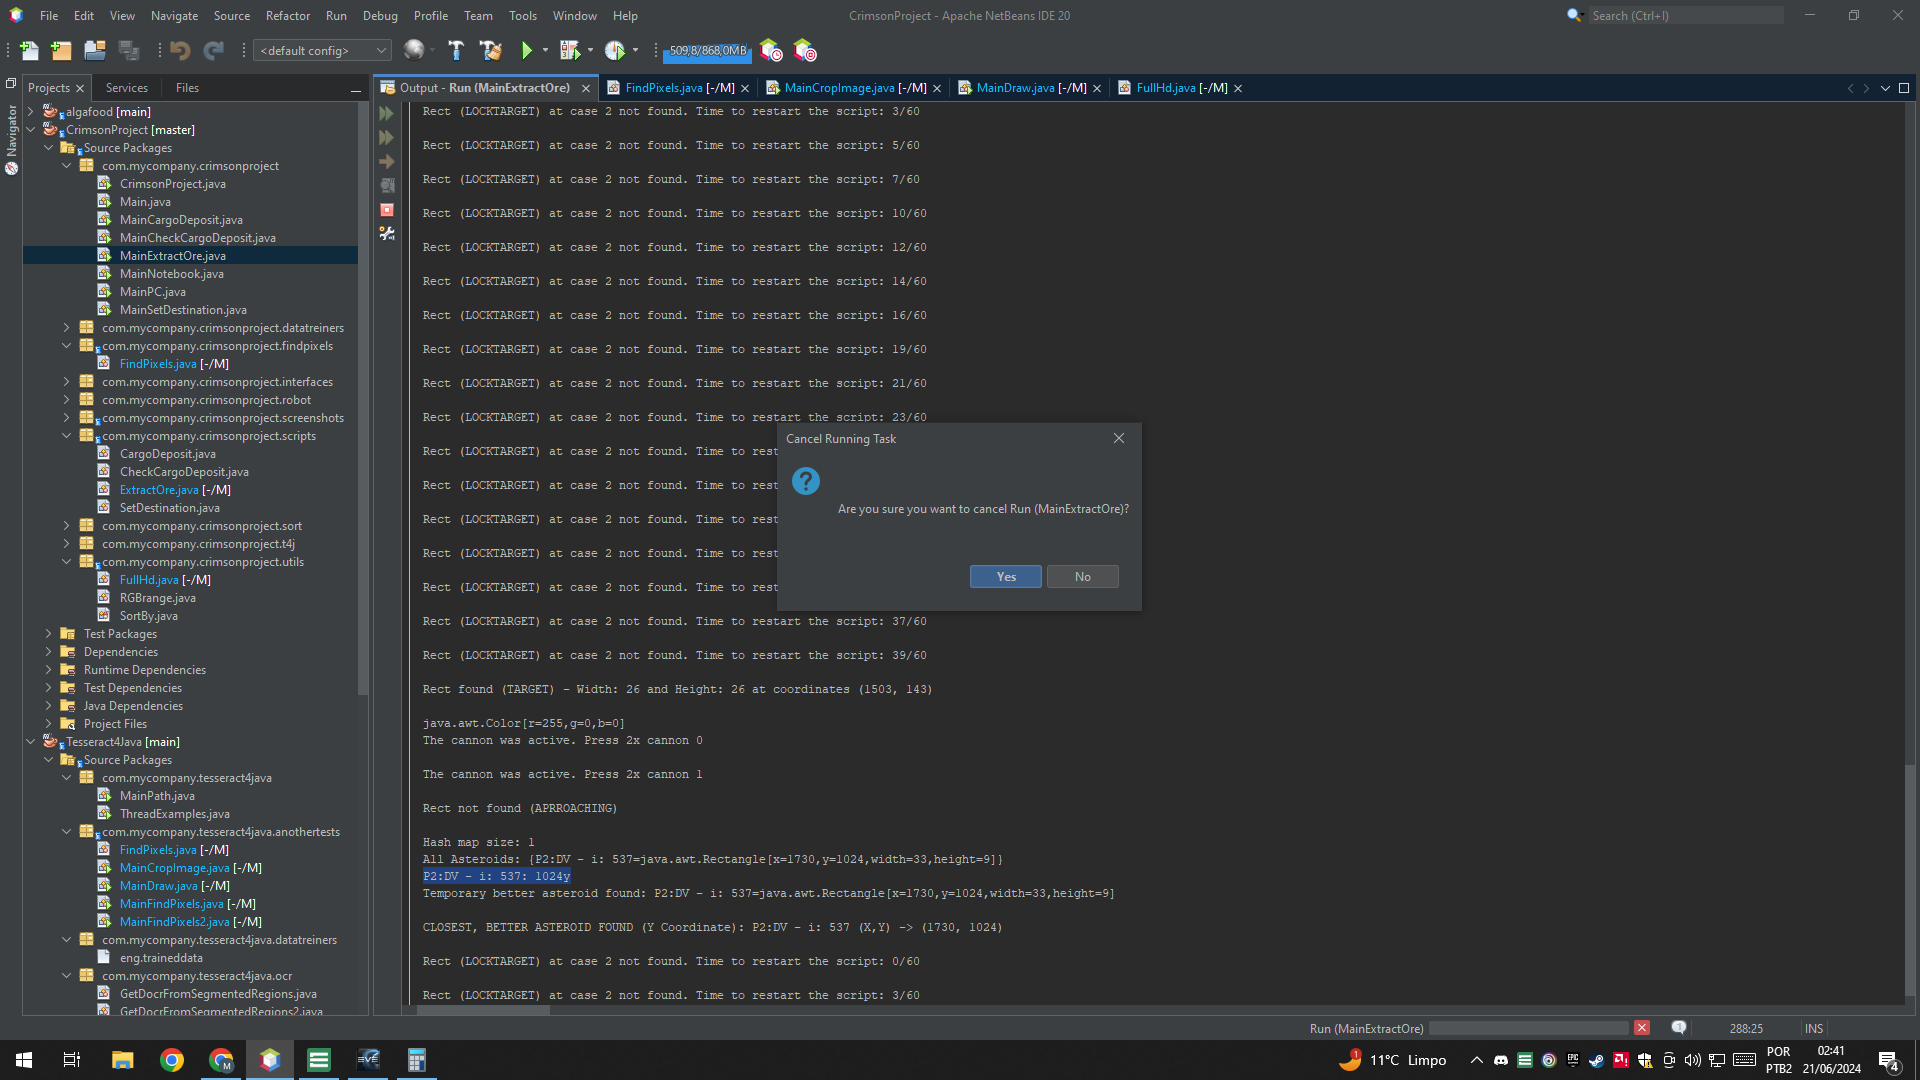
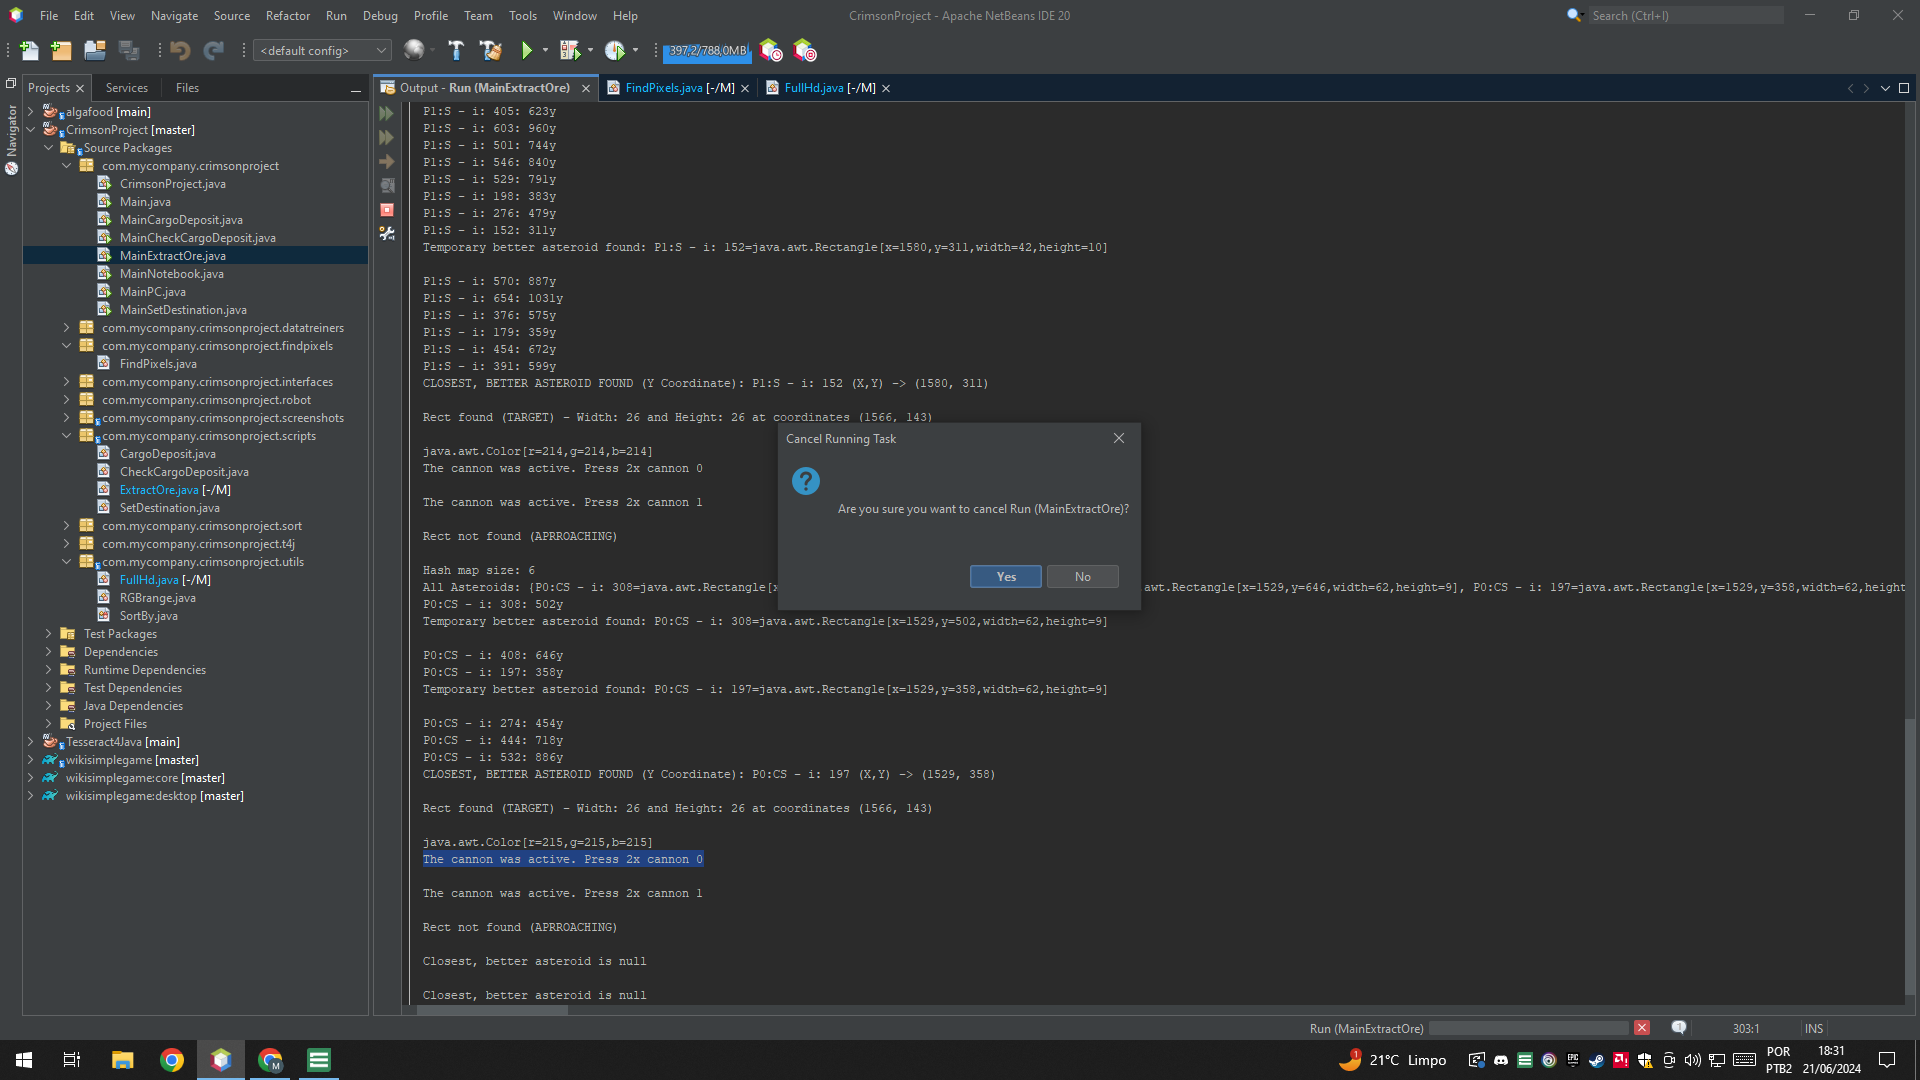
Alterando valores do canal green e onde o escopo é verificado na tela
Tentativa de maximizar as chances de acerto de verificação dos canhões

diff --git a/src/main/java/com/mycompany/crimsonproject/scripts/ExtractOre.java b/src/main/java/com/mycompany/crimsonproject/scripts/ExtractOre.java
@@ -237,7 +237,7 @@ public class ExtractOre implements VerifyRectangle {
         for (int i = 0; i < events.size(); i++) {
 
             //int i, int flagAttempt, List<Integer> coordinatesX, int y, int width, int height, Triplet<Integer, Integer, Integer> tupleMin, Triplet<Integer, Integer, Integer> tupleMax)
-            if (this.isMinerCannonAction(i, 11, (Arrays.asList(FullHd.getF1CANNON1_X(), FullHd.getF2CANNON2_X())), FullHd.getFnCANNONS_Y(), FullHd.getSTRIPMINERCANNON_W1(), FullHd.getSTRIPMINERCANNON_H1(), 140, 255)) {
+            if (this.isMinerCannonAction(i, 11, (Arrays.asList(FullHd.getF1CANNON1_X(), FullHd.getF2CANNON2_X())), FullHd.getFNCANNONS_Y(), FullHd.getSTRIPMINERCANNON_W1(), FullHd.getSTRIPMINERCANNON_H1(), 115, 133)) {
                 new KeyboardEvents().clickKey(events.get(i));
                 Thread.sleep(CANNON_SLEEP);
                 new KeyboardEvents().clickKey(events.get(i));
@@ -257,7 +257,7 @@ public class ExtractOre implements VerifyRectangle {
 
         for (int i = 0; i < events.size(); i++) {
 
-            if (!this.isMinerCannonAction(i, 31, (Arrays.asList(FullHd.getF1CANNON1_X(), FullHd.getF2CANNON2_X())), FullHd.getFnCANNONS_Y(), FullHd.getSTRIPMINERCANNON_W1(), FullHd.getSTRIPMINERCANNON_H1(), this.rgbr.getMinStripActiveMinerRGB(), this.rgbr.getMaxStripActiveMinerRGB())) {
+            if (!this.isMinerCannonAction(i, 31, (Arrays.asList(FullHd.getF1CANNON1_X(), FullHd.getF2CANNON2_X())), FullHd.getFNCANNONS_Y(), FullHd.getSTRIPMINERCANNON_W1(), FullHd.getSTRIPMINERCANNON_H1(), this.rgbr.getMinStripActiveMinerRGB(), this.rgbr.getMaxStripActiveMinerRGB())) {
                 new KeyboardEvents().clickKey(events.get(i));
                 System.out.println("\nCannon was deactived. Activating again.\n");
                 System.out.println("\nMethod time to be executioned: " + (System.currentTimeMillis() - start) / 1000 + " secs\n");

diff --git a/src/main/java/com/mycompany/crimsonproject/utils/FullHd.java b/src/main/java/com/mycompany/crimsonproject/utils/FullHd.java
@@ -287,14 +287,15 @@ public class FullHd {
 
     //(1042, 950, 46, 8)
     private final List<Pair<Integer, Integer>> stripMinerCannonWxHlit = Arrays.asList(new Pair<>(STRIPMINERCANNON_W1, STRIPMINERCANNON_H1));
-    private static final int STRIPMINERCANNON_W1 = 46;
-    private static final int STRIPMINERCANNON_H1 = 8;
+    private static final int STRIPMINERCANNON_W1 = 15;
+    private static final int STRIPMINERCANNON_H1 = 3;
 
     private final List<Pair<Integer, Integer>> ventureXcannonCoordinates = Arrays.asList(
             new Pair<>(F1CANNON1_X, F2CANNON2_X));
-    private static final int F1CANNON1_X = 1042;
-    private static final int F2CANNON2_X = 1092;
-    private static final int FnCANNONS_Y = 950;
+    private static final int F1CANNON1_X = 1057;
+    private static final int F2CANNON2_X = 1057 + 51;
+    private static final int FNCANNONS_Y = 914;
+    //(1047, 950, 35, 8)
     /* ------------------------------------------------------------- */
 
     //!!!!!!!!!!
@@ -440,8 +441,8 @@ public class FullHd {
         return APPROACHING_Y;
     }
 
-    public static int getFnCANNONS_Y() {
-        return FnCANNONS_Y;
+    public static int getFNCANNONS_Y() {
+        return FNCANNONS_Y;
     }
 
     public static int getRANGEDVENTURECANNONS_Y() {
